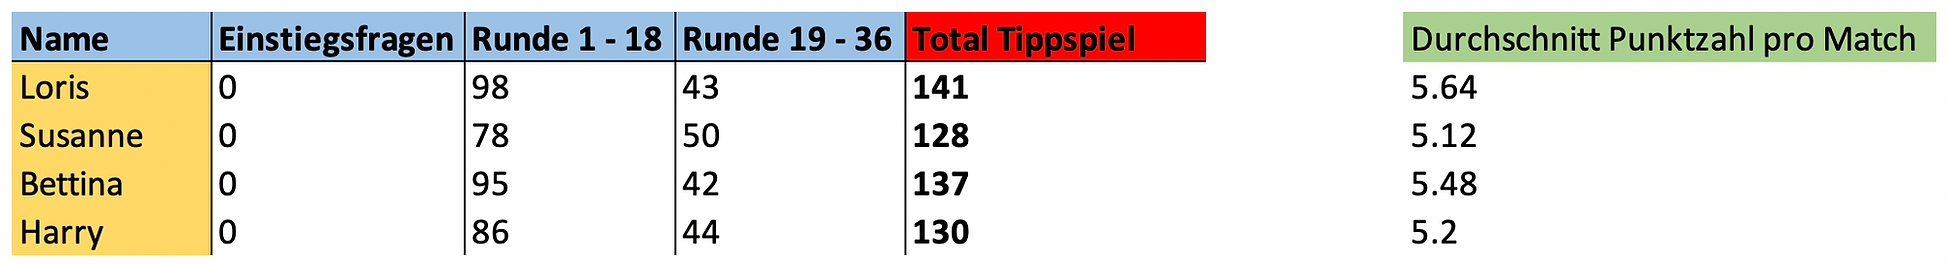
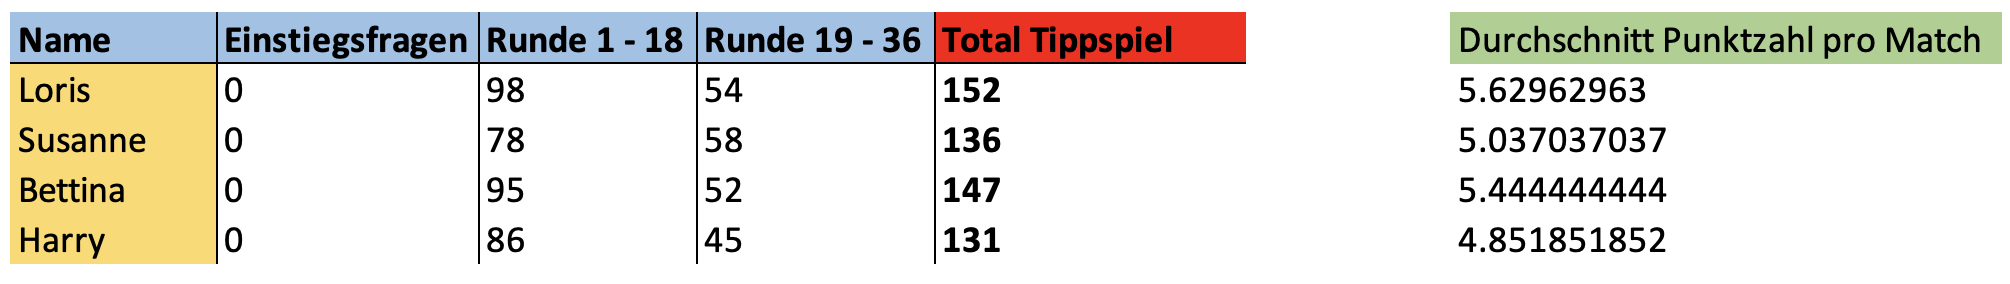
Update Tippspiel
Total Punkte.png
Nächstes und letztes Spiel
19. März

diff --git a/SprecherZaehner/html/spiele_resultate.html b/SprecherZaehner/html/spiele_resultate.html
@@ -61,26 +61,26 @@
           <br>
           <h2>N&auml;chstes Spiel:</h2>
           <p>
-            Samstag, 19. M&auml;rz 2022 um 20:30 Uhr<br>
-            BSC Young Boys vs. FCZ
+            Samstag 02. April 2022 um 20:30 Uhr<br>
+            FCZ vs. Grasshopper Club Z&uuml;rich
           </p>
           <h2>Letztes Spiel:</h2>
           <p>
-            Samstag, 12. M&auml;rz 2022 um 18:00 Uhr<br>
-            FCZ vs. FC St. Gallen
+            Samstag, 19. M&auml;rz 2022 um 20:30 Uhr<br>
+            BSC Young Boys vs. FCZ
           </p>
           <table class="table table-striped">
             <tr>
               <th>Resultat</th>
-              <td>0:3</td>
+              <td>1:2</td>
             </tr>
             <tr>
               <th>1. Torschütze</th>
-              <td></td>
+              <td>Kramer</td>
             </tr>
             <tr>
               <th>2. Torschütze</th>
-              <td></td>
+              <td>Marchesano</td>
             </tr>
             <tr>
               <th>3. Torschütze</th>

diff --git a/SprecherZaehner/html/tippspiel.html b/SprecherZaehner/html/tippspiel.html
@@ -57,7 +57,7 @@
       <hr>
       <h2>Total Punkte</h2>
       <img src="../img/FCZ/Total Punkte.png" width="100%">
-      <p style="text-align: center;">stand 05. M&auml;rz 2022</p>
+      <p style="text-align: center;">stand 19. M&auml;rz 2022</p>
       <h2>Auswertung Einstiegsfragen</h2>
       <img src="../img/FCZ/Einstiegsfragen Fragen.png" width="70%" class="mx-auto d-block border">
       <img src="../img/FCZ/Einstiegsfragen Antworten.png" width="100%" class="mx-auto d-block">
